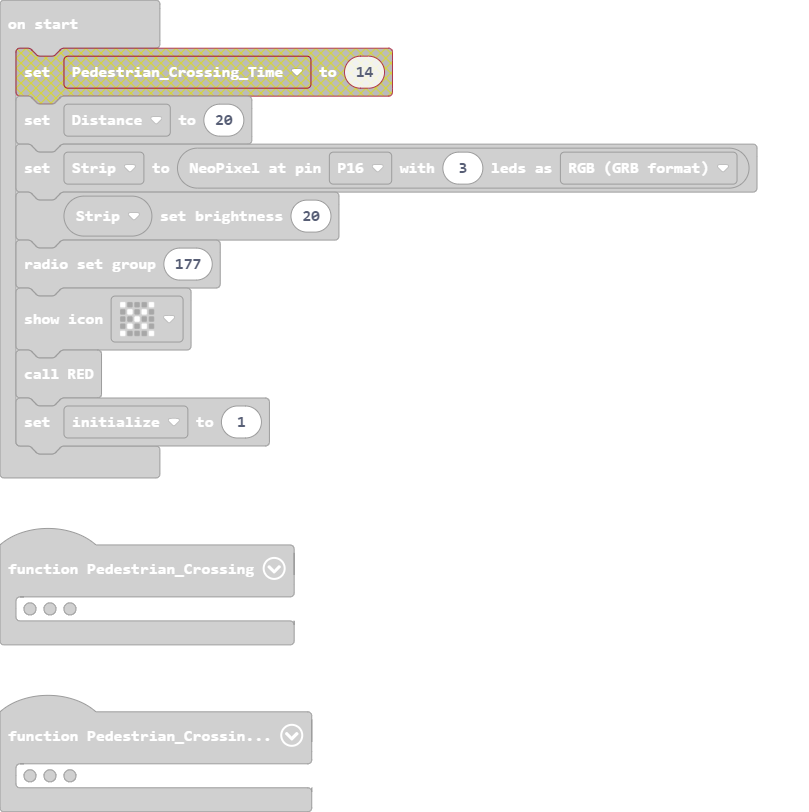
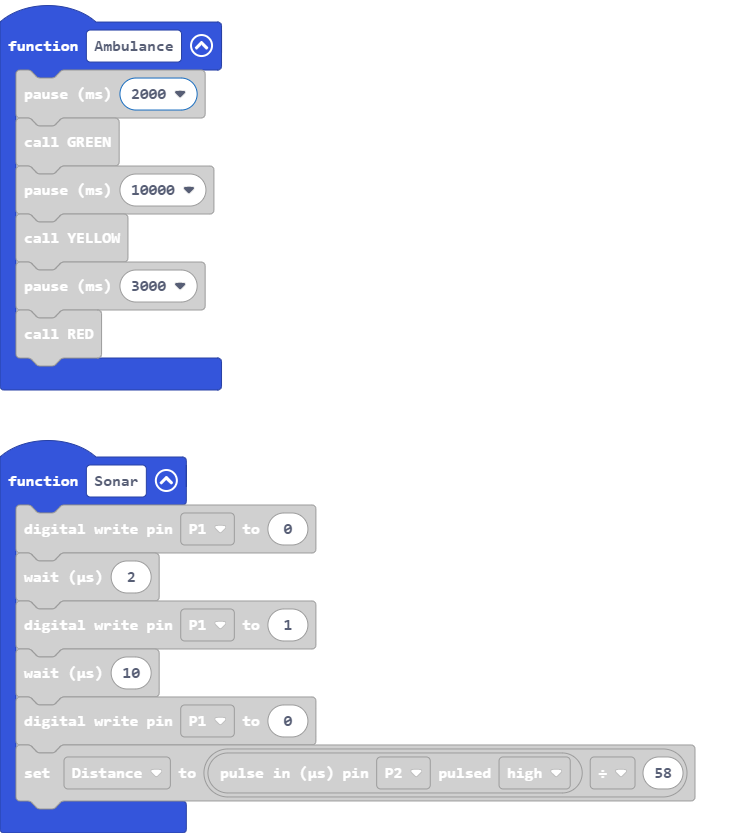
Update main.blocks, main.ts

diff --git a/main.ts b/main.ts
@@ -53,7 +53,7 @@ function RED () {
     range.showColor(neopixel.colors(NeoPixelColors.Black))
 }
 function Ambulance () {
-    basic.pause(500)
+    basic.pause(2000)
     GREEN()
     basic.pause(10000)
     YELLOW()
